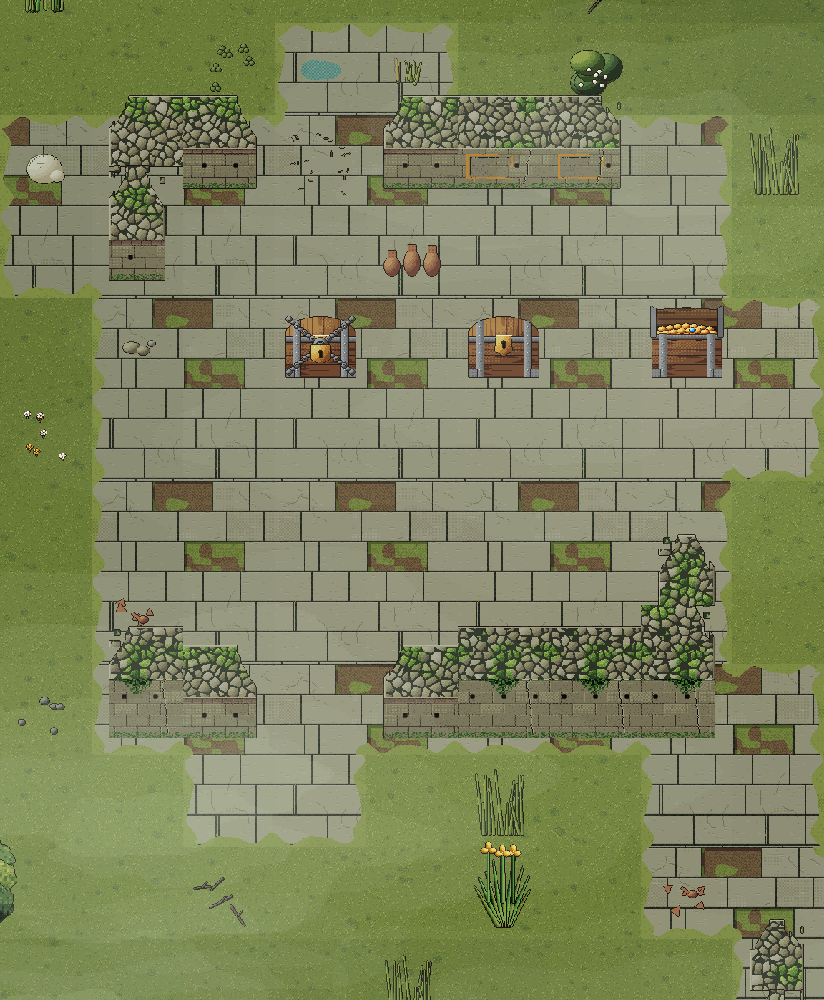
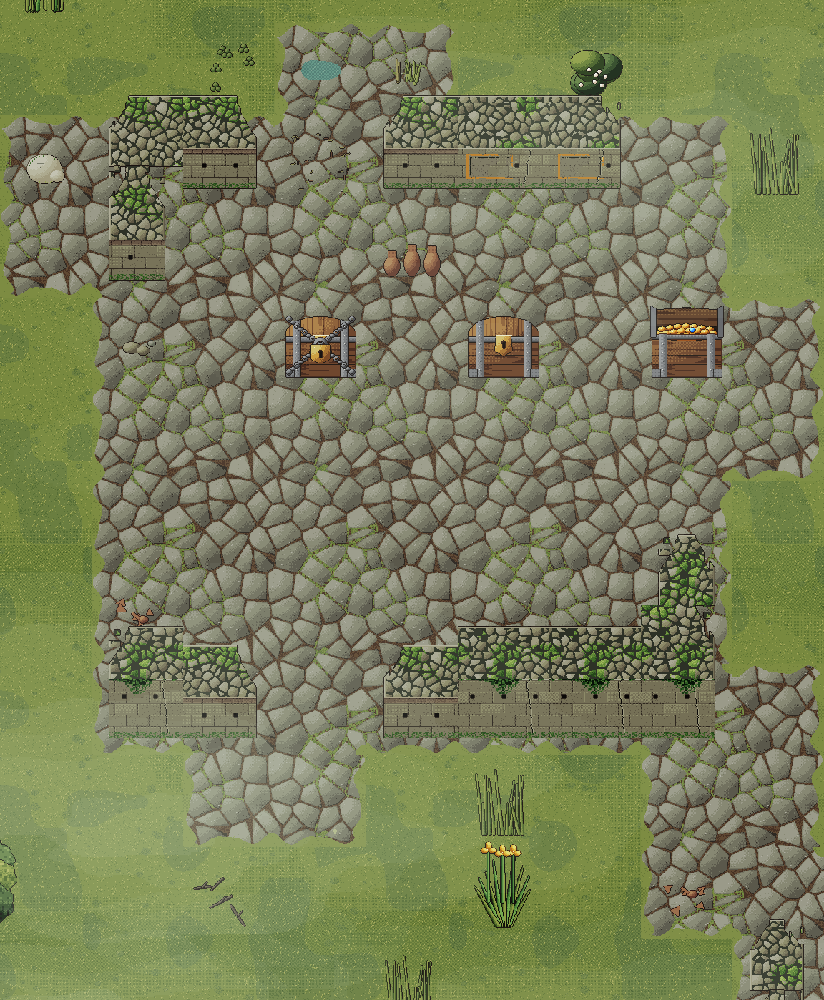
Pântanos sem faixas, quadrados e confete no chão
Visto no celular, o chão novo dos dois pântanos ficou ruim: a sombra e as
folhas da beira da mata seguiam a linha do tile (a copa termina antes
dela) e viravam uma faixa reta e uma fileira de folhas; a tinta de luz por
tile deixava a grade em quadrados no capim; os lamaçais tinham cara de
bloco; os enfeites rasteiros viravam confete; a água funda e as lajes do
Pântano das Ruínas repetiam o mesmo desenho em grade.

Nos pântanos: sem sombra e folhas na beira da mata, sem tinta por tile
(as manchas de luz e de musgo agora estão pintadas no capim, contínuas em
blocos de 4x4 tiles, como o miolo das lagoas), sem lamaçais, enfeites
rasteiros bem mais raros e o piso das ruínas em pedras irregulares. O
Bosque Velho e o Coração da Mata não mudam (teste cenarios).

Claude-Session: https://claude.ai/code/session_017wBqbNTjck9cMUH9LvK2M2

diff --git a/apps/client/src/forestPlan.ts b/apps/client/src/forestPlan.ts
@@ -2,8 +2,8 @@ import { TILE_SIZE, Tile, tileAt, tileDistance, type Dungeon, type Rect } from "
 import { hash } from "./art/pixels.ts";
 import { TileAtlas } from "./art/paint.ts";
 import {
-  GIANT, HEART, OPEN, SPECIES, TALL, TALL_DECOR, TREE, boardTile, bogTile, bridgeTile, canopyTile, dirtTile, draw, flatDecor, giant,
-  heartTree, litterEdge, logTile, mudEdge, shadowEdge, stone, tallDecor, tree, wallTile, waterTile,
+  GIANT, HEART, OPEN, SPECIES, TALL, TALL_DECOR, TREE, boardTile, bridgeTile, canopyTile, dirtTile, draw, flatDecor, giant,
+  heartTree, litterEdge, logTile, mudEdge, shadowEdge, stone, tallDecor, tree, wallTile, waterTile, wetPiece,
   type FlatDecor, type ForestVariant, type TallDecor,
 } from "./art/forestArt.ts";
 import {
@@ -13,7 +13,7 @@ import {
 
 // O plano do Bosque Velho, do Coração da Mata e dos dois pântanos, sem o Phaser: que quadro vai em cada tile de cada
 // camada e que objeto fica de pé onde. `forestMap.ts` desenha no jogo; o plano também serve para prévias fora do
-// navegador. O pântano é a mesma mata, alagada: passarelas em vez de pontes, lamaçais no capim, árvores dentro d'água.
+// navegador. O pântano é a mesma mata, alagada: passarelas em vez de pontes, árvores dentro d'água.
 // O Pântano das Ruínas tem, no lugar dos troncos, o que resta do império afundado (`art/swampArt.ts`): lajes, muros,
 // colunas, entulho e o mosaico da arena.
 
@@ -24,7 +24,6 @@ const RING = [[0, -1, OPEN.n], [1, 0, OPEN.e], [0, 1, OPEN.s], [-1, 0, OPEN.w], 
 const GRASS_VARIANTS = 6;
 const ARENA_VARIANTS = 3;
 const WATER_VARIANTS = 2;
-const MARSH_WATER_VARIANTS = 6;
 const TREE_VARIANTS = 3;
 const GIANT_VARIANTS = 2;
 const CANOPY_VARIANTS = 4;
@@ -134,24 +133,6 @@ export function planForest(d: Dungeon) {
     for (let y = 0; y < H; y++)
       for (let x = 0; x < W; x++)
         if (kind[y * W + x] === 2 && DIRS.filter(([dx, dy]) => at(x + dx, y + dy) === Tile.Water).length >= 2) wetTree[y * W + x] = 1;
-  /**
-   * Lamaçais do pântano: manchas de lama no capim aberto, por um ruído suave sobre a grade de tiles (fora das clareiras,
-   * da arena e das passarelas).
-   */
-  const bogSet = new Uint8Array(W * H);
-  if (variant === "marsh") {
-    const cellNoise = (x: number, y: number) => {
-      const C = 7, gx = Math.floor(x / C), gy = Math.floor(y / C), fx = x / C - gx, fy = y / C - gy;
-      const sx = fx * fx * (3 - 2 * fx), sy = fy * fy * (3 - 2 * fy);
-      const v = (i: number, j: number) => hash(i, j, 71);
-      const top = v(gx, gy) + (v(gx + 1, gy) - v(gx, gy)) * sx, bottom = v(gx, gy + 1) + (v(gx + 1, gy + 1) - v(gx, gy + 1)) * sx;
-      return top + (bottom - top) * sy;
-    };
-    for (let y = 0; y < H; y++)
-      for (let x = 0; x < W; x++)
-        if (at(x, y) === Tile.Floor && cellNoise(x, y) > 0.7 && !inRooms(x, y) && !inArena(x, y) && !onBridge(x, y)) bogSet[y * W + x] = 1;
-  }
-  const bog = (x: number, y: number) => inMap(x, y) && bogSet[y * W + x] === 1;
 
   // Lajes (Pântano das Ruínas): as salas inteiras, uma beirada irregular em volta delas e o chão em volta dos restos de
   // muro pelo campo. Laje solta no capim (sem duas vizinhas de laje) não fica.
@@ -233,12 +214,21 @@ export function planForest(d: Dungeon) {
         // As variações só no miolo da lagoa (sem terra em volta): na margem, o contorno já muda de tile para tile, e o
         // atlas não passa do limite de textura do celular.
         const land = edges(x, y, (a, b) => !water(a, b));
-        const v = land ? pick(x, y, 2, 5) : pick(x, y, MARSH_WATER_VARIANTS, 5);
-        put("chao", x, y, `water${land}-${v}`, () => waterTile(variant, land, v).render(false));
+        if (!land) {
+          const q = wetPiece(x, y);
+          put("chao", x, y, `pool${q}`, () => waterTile(variant, 0, q, q).render(false));
+        } else {
+          const v = pick(x, y, 2, 5);
+          put("chao", x, y, `water${land}-${v}`, () => waterTile(variant, land, v).render(false));
+        }
       } else if (t === Tile.Water && !onBridge(x, y)) {
         const land = edges(x, y, (a, b) => !water(a, b));
         const v = pick(x, y, WATER_VARIANTS, 5);
         put("chao", x, y, `water${land}-${v}`, () => waterTile(variant, land, v).render(false));
+      } else if (marsh) {
+        // Pântanos: o capim contínuo em blocos de 4×4 tiles (também na clareira do boss), sem tinta por tile.
+        const q = wetPiece(x, y);
+        put("chao", x, y, `wgrass${q}`, draw.wetGrass(variant, q));
       } else if (inArena(x, y)) {
         const v = pick(x, y, ARENA_VARIANTS, 2);
         put("chao", x, y, `arena${v}`, draw.arena(variant, v));
@@ -287,17 +277,14 @@ export function planForest(d: Dungeon) {
         const out = edges(x, y, (a, b) => !trail(a, b));
         put("trilha", x, y, `dirt${out}`, () => dirtTile(variant, out).render(false));
       }
-      if (bog(x, y)) {
-        const out = edges(x, y, (a, b) => !bog(a, b));
-        const v = out ? 0 : pick(x, y, 3, 8);
-        put("trilha", x, y, `bog${out}-${v}`, () => bogTile(variant, out, v).render(false));
-      }
       const wet = edges(x, y, (a, b) => at(a, b) === Tile.Water && !onBridge(a, b));
       if (wet) put("barro", x, y, `mud${wet}`, () => mudEdge(variant, wet).render(false));
+      // Folhas secas e sombra na beira da mata (não nos pântanos: as duas seguem a linha do tile, e a copa termina antes
+      // dela; ficavam uma faixa reta e uma fileira de folhas no capim).
       const woods = edges(x, y, forest);
-      if (woods && !inArena(x, y) && !paved(x, y)) put("folhas", x, y, `litter${woods}`, () => litterEdge(variant, woods).render(true));
+      if (woods && !marsh && !inArena(x, y) && !paved(x, y)) put("folhas", x, y, `litter${woods}`, () => litterEdge(variant, woods).render(true));
       const shade = woods & (OPEN.n | OPEN.w | OPEN.nw);
-      if (shade) put("sombra", x, y, `shade${shade}`, () => shadowEdge(variant, shade));
+      if (shade && !marsh) put("sombra", x, y, `shade${shade}`, () => shadowEdge(variant, shade));
 
       // Enfeites rasteiros: poucos, em grupos perto da mata, dos troncos e das salas.
       if (kind[i] || reserved(x, y) || t === Tile.Portal) continue;
@@ -317,8 +304,9 @@ export function planForest(d: Dungeon) {
       }
       const n = hash(x, y, 91);
       const byWoods = near(x, y, 1, forest);
-      const chance = inRooms(x, y) ? (marsh ? 0.4 : 0.14) : trail(x, y) ? 0.03 : byWoods ? 0.14 : marsh ? 0.13 : 0.09;
-      if (n >= chance || bog(x, y)) continue;
+      // Nos pântanos, poucos enfeites rasteiros (muitos viravam um confete pelo chão), mais nas clareiras dos baús.
+      const chance = inRooms(x, y) ? (marsh ? 0.22 : 0.14) : trail(x, y) ? 0.03 : byWoods ? (marsh ? 0.06 : 0.14) : marsh ? 0.035 : 0.09;
+      if (n >= chance) continue;
       const k = flatKind(hash(x, y, 92), { heart, marsh, trail: trail(x, y), woods: byWoods, wet: wet !== 0, arena: inArena(x, y), room: inRooms(x, y) });
       const v = Math.floor(hash(x, y, 93) * 3);
       put("enfeites", x, y, `flat-${k}-${v}`, () => flatDecor(variant, k, v).render(true));
@@ -398,7 +386,7 @@ export function planForest(d: Dungeon) {
         continue;
       }
       const t = at(x, y);
-      if (t !== Tile.Floor || kind[i] || reserved(x, y) || layers.enfeites[i] >= 0 || trail(x, y) || onBridge(x, y) || bog(x, y)) continue;
+      if (t !== Tile.Floor || kind[i] || reserved(x, y) || layers.enfeites[i] >= 0 || trail(x, y) || onBridge(x, y)) continue;
       if (paved(x, y)) {
         // De pé nas lajes: tambor de coluna, cabeça de estátua, urnas, ânfora ou acanto na fresta; nunca no mosaico nem
         // perto dos baús.

diff --git a/apps/client/src/art/forestArt.ts b/apps/client/src/art/forestArt.ts
@@ -1,6 +1,6 @@
 import type { Rgb } from "./hero/color.ts";
 import {
-  BAYER, FLAT, HD, Paper as Painter, ebox, ellipse, inEllipse, limb, line, lit, noise, palette, poly, sn, sphere,
+  BAYER, FLAT, HD, Paper as Painter, ebox, ellipse, inEllipse, limb, line, lit, noise, palette, poly, smoothNoise, sn, sphere,
   type MaterialBase, type Offset, type Shade,
 } from "./paint.ts";
 
@@ -179,6 +179,30 @@ function grassTile(variant: ForestVariant, v: number, lush = false): Paper {
     for (const [dx, dy] of [[0, -2], [-2, 1], [2, 1]] as const) { p.on(x + dx, y + dy, F.Moss, 4); p.on(x + dx + 1, y + dy, F.Moss, 3); }
     p.on(x, y + 2, F.Moss, 1);
   }
+  return p;
+}
+
+/** O capim dos pântanos é uma textura contínua de `WET_BLOCK`×`WET_BLOCK` tiles: cada tile pinta o pedaço `q` dela. */
+export const WET_BLOCK = 4;
+/** Pedaço do bloco de capim que o tile (x, y) usa. */
+export const wetPiece = (x: number, y: number) => (x & (WET_BLOCK - 1)) + WET_BLOCK * (y & (WET_BLOCK - 1));
+
+/**
+ * Capim dos pântanos: o miúdo do capim da mata e, por cima, as manchas grandes de luz e de musgo, que correm sem emenda
+ * pelo bloco de 4×4 tiles (`q` é o pedaço). Nos pântanos o mapa não tinge tile a tile (a tinta por tile deixava a grade
+ * aparecendo em quadrados no campo aberto): a variação grande vem daqui.
+ */
+function wetGrassTile(variant: ForestVariant, q: number): Paper {
+  const p = grassTile(variant, q % 6);
+  const ox = (q % WET_BLOCK) * HD, oy = Math.floor(q / WET_BLOCK) * HD, P = HD * WET_BLOCK;
+  for (let y = 0; y < HD; y++)
+    for (let x = 0; x < HD; x++) {
+      const i = y * HD + x;
+      const light = smoothNoise(x + ox, y + oy, 128, 401, P);
+      const moss = smoothNoise(x + ox, y + oy, 64, 402, P);
+      if (p.fixed[i] < 0) p.shade[i] += (light - 0.5) * 0.22;
+      if (moss > 0.66 && p.mat[i] === F.Grass && p.fixed[i] < 0) p.mat[i] = F.Moss;
+    }
   return p;
 }
 
@@ -404,7 +428,7 @@ export function canopyTile(variant: ForestVariant, open: number, v: number): Pap
  * riscos de correnteza; no Coração da Mata, a lagoa escura e parada com folhas de nenúfar; no pântano, a água turva e
  * parada com manchas de lentilha-d'água e mais nenúfares. Barro na margem.
  */
-export function waterTile(variant: ForestVariant, land: number, v: number): Paper {
+export function waterTile(variant: ForestVariant, land: number, v: number, block?: number): Paper {
   const p = new Paper(variant);
   const heart = variant !== "oldwood";
   const marsh = isWetland(variant);
@@ -420,7 +444,12 @@ export function waterTile(variant: ForestVariant, land: number, v: number): Pape
       // No pântano (água larga), o ruído perto da beira do tile é o mesmo para todos (a emenda casa) e no miolo é o da
       // variação: a lagoa não vira um xadrez de tiles iguais.
       const rim = marsh ? Math.min(1, Math.min(x, y, HD - 1 - x, HD - 1 - y) / 14) : 0;
-      const mixed = (cell: number, seed: number) => (marsh ? 0.5 + (sn(x, y, cell, seed + 40 + v * 7) - 0.5) * rim : sn(x, y, cell, seed));
+      // `block`: o miolo da lagoa do pântano pinta o pedaço `block` de um ruído contínuo de 4×4 tiles (não repete a
+      // cada tile); na beira do tile o tom é o mesmo para todos, então emenda com a margem.
+      const inner = (cell: number, seed: number) => (block === undefined
+        ? sn(x, y, cell, seed + 40 + v * 7)
+        : smoothNoise(x + (block % WET_BLOCK) * HD, y + Math.floor(block / WET_BLOCK) * HD, cell, seed + 40, HD * WET_BLOCK));
+      const mixed = (cell: number, seed: number) => (marsh ? 0.5 + (inner(cell, seed) - 0.5) * rim : sn(x, y, cell, seed));
       p.mat[i] = deep ? F.Deep : F.Water;
       // (No pântano, a água funda fica no meio de uma faixa de tom: na divisa, o pontilhado vira um xadrez na lagoa toda.)
       p.shade[i] = deep ? (marsh ? 0.6 : 0.48) + (mixed(32, 93) - 0.5) * 0.1 : 0.7 - Math.min(1, d / 30) * 0.22;
@@ -522,41 +551,6 @@ export function boardTile(variant: ForestVariant, across: boolean, ends: number,
       q.mat[o] = p.mat[i]; q.shade[o] = p.shade[i]; q.off[o] = p.off[i]; q.fixed[o] = p.fixed[i]; q.part[o] = p.part[i];
     }
   return q;
-}
-
-/**
- * Lamaçal do pântano (por cima do capim), pelos vizinhos que não são lama (`out`): a beira ondulada como a da trilha,
- * a lama escura e brilhante, poças d'água paradas e pegadas afundadas.
- */
-export function bogTile(variant: ForestVariant, out: number, v: number): Paper {
-  const p = new Paper(variant);
-  const edge = (x: number, y: number) => 22 + (sn(x, y, 32, 300) - 0.5) * 24 + (sn(x, y, 16, 301) - 0.5) * 8;
-  const dist = field(out, 62);
-  p.fill([0, 0, HD - 1, HD - 1], (x, y) => at(dist, x, y) > edge(x, y), F.Mud, (x, y) => FLAT - 0.06 + (sn(x, y, 16, 302) - 0.5) * 0.2,
-    (x, y) => (noise(x, y, 303) < 0.05 ? -1 : noise(x, y, 304) > 0.98 ? 1 : 0));
-  for (let y = 0; y < HD; y++)
-    for (let x = 0; x < HD; x++) {
-      if (!p.has(x, y)) continue;
-      const i = y * HD + x;
-      const d = dist[i] - edge(x, y);
-      if (d < 2) p.on(x, y, null, 1);
-      else if (d < 7 && noise(x >> 1, y >> 1, 305) < 0.25) { p.mat[i] = F.Grass; p.fixed[i] = noise(x, y, 306) < 0.5 ? 3 : 2; }
-    }
-  // Poças: água parada no fundo da lama, longe da beira do tile (não cruzam a emenda, então mudam com a variação).
-  for (let k = 0; k < 1 + (v % 2); k++) {
-    const cx = 34 + noise(k, v, 307) * 60, cy = 34 + noise(v, k, 308) * 60, rx = 10 + noise(k, v + 3, 309) * 12, ry = rx * (0.5 + noise(v, k + 3, 310) * 0.2);
-    const wob = (a: number) => 1 + 0.18 * Math.sin(a * 3 + k + v) + 0.1 * Math.sin(a * 5 + v);
-    for (let y = Math.floor(cy - ry - 3); y <= cy + ry + 3; y++)
-      for (let x = Math.floor(cx - rx - 3); x <= cx + rx + 3; x++) {
-        const u = (x + 0.5 - cx) / rx, w = (y + 0.5 - cy) / ry, r = Math.hypot(u, w) / wob(Math.atan2(w, u));
-        if (r > 1 || !p.has(x, y)) continue;
-        const i = y * HD + x;
-        p.mat[i] = F.Water;
-        // Beira escura, o meio na cor da água e o brilho do céu em riscos do lado da luz.
-        p.fixed[i] = r > 0.85 ? 1 : w < -0.2 && u < 0.2 && noise(x >> 2, y, 311) < 0.25 ? 4 : 2;
-      }
-  }
-  return p;
 }
 
 // --- Troncos caídos e muros ----------------------------------------------------------------
@@ -1169,6 +1163,7 @@ export function tallDecor(variant: ForestVariant, kind: TallDecor, v: number): U
 /** Atalhos dos quadros de chão. */
 export const draw = {
   grass: (variant: ForestVariant, v: number) => () => grassTile(variant, v).render(false),
+  wetGrass: (variant: ForestVariant, q: number) => () => wetGrassTile(variant, q).render(false),
   arena: (variant: ForestVariant, v: number) => () => arenaTile(variant, v).render(false),
 };
 

diff --git a/apps/client/src/art/swampArt.ts b/apps/client/src/art/swampArt.ts
@@ -1,4 +1,4 @@
-import { E, empireRampsWith, flatDecor, fringeEdge, inPalette, travertineTile, type FlatDecor } from "./empireArt.ts";
+import { E, basaltTile, empireRampsWith, flatDecor, fringeEdge, inPalette, type FlatDecor } from "./empireArt.ts";
 import {
   BLOCK, COLUMN, MOSAIC_TILES, SMALL, WALL_SPRITE, columnSprite, mosaicImage, rubbleSprite, smallDecor, wallSprite,
   type ColumnKind, type SmallDecor,
@@ -14,7 +14,7 @@ import {
 /** Paleta das ruínas: as cores do império com a pedra lavada pela baía e a vegetação do pântano. */
 const RAMPS = empireRampsWith({
   [E.Grass]: ["#7d8c42", 0.6, 3], [E.Dry]: ["#8e8a52", 0.6, 4], [E.Dirt]: ["#755f40", 0.7, 6], [E.Clover]: ["#6e8342", 0.7, 4],
-  [E.Basalt]: ["#5e6458", 0.8, 5], [E.Travertine]: ["#9c9b82", 0.62, 5], [E.Marble]: ["#b8b7a0", 0.55, 4], [E.Vein]: ["#8a8c7a", 0.7, 4],
+  [E.Basalt]: ["#878873", 0.8, 5], [E.Travertine]: ["#9c9b82", 0.62, 5], [E.Marble]: ["#b8b7a0", 0.55, 4], [E.Vein]: ["#8a8c7a", 0.7, 4],
   [E.Mortar]: ["#3e4234", 0.6, 4], [E.Tuff]: ["#8c8a68", 0.8, 6], [E.Moss]: ["#5f8636", 0.85, 8], [E.Ivy]: ["#2f5a22", 0.95, 9],
   [E.Leaf]: ["#436130", 0.95, 9], [E.Bush]: ["#55783a", 0.95, 9], [E.Water]: ["#629484", 0.85, 8], [E.Deep]: ["#3e6b61", 0.85, 8],
   [E.Slab]: ["#5e6252", 0.8, 5], [E.Wall]: ["#6c6c5a", 0.85, 5], [E.Bone]: ["#d1ccb9", 0.75, 5], [E.Line]: ["#171f0f", 0.4, 0],
@@ -23,13 +23,17 @@ const RAMPS = empireRampsWith({
   [E.Terracotta]: ["#9a6a48", 0.8, 6], [E.Cloth]: ["#6e4a3a", 0.8, 6],
 });
 
-const swamp = <T>(draw: () => T) => inPalette(RAMPS, draw);
+export const inSwamp = <T>(draw: () => T) => inPalette(RAMPS, draw);
+const swamp = inSwamp;
 
 export { BLOCK, COLUMN, MOSAIC_TILES, SMALL, WALL_SPRITE, type ColumnKind, type FlatDecor, type SmallDecor };
 export { WALL_HEIGHTS, WALL_LINK } from "./empireMonuments.ts";
 
-/** Laje do piso (calçamento que fecha a cada 2×2 tiles: `q` é o quarto do tile). */
-export const pavingTile = (q: number) => swamp(() => travertineTile(q).render(false));
+/**
+ * Piso de pedras irregulares (o calçamento de basalto da via dos Portões, aqui em calcário; fecha a cada 2×2 tiles: `q`
+ * é o quarto do tile). O travertino tinha lajes faltando em grade regular, que apareciam a cada 2 tiles.
+ */
+export const pavingTile = (q: number) => swamp(() => basaltTile(q).render(false));
 /** Capim invadindo a beira das lajes pelos vizinhos que são capim (bits de `OPEN`). */
 export const pavingFringe = (grass: number) => swamp(() => fringeEdge(grass).render(false));
 /** Trecho de muro arruinado (`wallSprite` do império, sem as ameias da muralha). */

diff --git a/apps/server/scripts/cenarios.ts b/apps/server/scripts/cenarios.ts
@@ -28,7 +28,7 @@ import {
   tallDecor as duneTall, type DuneVariant,
 } from "../../client/src/art/duneArt.ts";
 import {
-  FLAT_DECOR as FOREST_FLAT, OPEN, SPECIES, TALL_DECOR as FOREST_TALL, boardTile, bogTile, bridgeTile, canopyTile, dirtTile, draw as forest,
+  FLAT_DECOR as FOREST_FLAT, OPEN, SPECIES, TALL_DECOR as FOREST_TALL, boardTile, bridgeTile, canopyTile, dirtTile, draw as forest,
   flatDecor as forestFlat, giant, heartTree, litterEdge, logTile, mudEdge, shadowEdge, stone, tallDecor as forestTall, tree,
   wallTile, waterTile, type ForestVariant,
 } from "../../client/src/art/forestArt.ts";
@@ -88,9 +88,9 @@ const SCENERY: Record<string, Piece[]> = {
   "Pântano do Kosaradius": [
     ...woods("marsh"),
     ...range(3).map((v) => ({ name: `água do miolo ${v}`, draw: () => waterTile("marsh", 0, v + 3).render(false) })),
+    ...[0, 5, 10, 15].map((q) => ({ name: `capim do pântano ${q}`, draw: forest.wetGrass("marsh", q) })),
     ...[0, OPEN.w, OPEN.e | OPEN.w].map((e) => ({ name: `passarela leste-oeste ${e}`, draw: () => boardTile("marsh", true, e, 0).render(true) })),
     ...[0, OPEN.n].map((e) => ({ name: `passarela norte-sul ${e}`, draw: () => boardTile("marsh", false, e, 1).render(true) })),
-    ...[[0, 1], [OPEN.n, 0], [OPEN.n | OPEN.w | OPEN.nw, 0]].map(([m, v]) => ({ name: `lamaçal ${m}-${v}`, draw: () => bogTile("marsh", m, v).render(false) })),
   ],
   "Pântano das Ruínas": [
     ...woods("swamp"),

diff --git a/apps/client/src/forestMap.ts b/apps/client/src/forestMap.ts
@@ -38,7 +38,8 @@ export function drawForest(scene: Phaser.Scene, d: Dungeon, floorDepth: number, 
   for (const name of LAYERS) {
     const l = map.createBlankLayer(name, set)!.setDepth(floorDepth).setScale(1 / ZOOM);
     const data = layers[name];
-    const tint = name === "chao" || name === "trilha" || name === "relevo";
+    // Nos pântanos a variação grande já vem pintada no capim (a tinta por tile deixava a grade aparecendo).
+    const tint = !isWetland(variant) && (name === "chao" || name === "trilha" || name === "relevo");
     for (let y = 0; y < H; y++)
       for (let x = 0; x < W; x++) {
         const f = data[y * W + x];

diff --git a/docs/CENARIOS_PLANO.md b/docs/CENARIOS_PLANO.md
@@ -97,7 +97,7 @@ comuns e os 5 mapas já padronizados (≈1 s no total). Os PNGs `chest-*`, `port
 Entregue de um jeito diferente do previsto: em vez de um pintor novo copiado do Bosque Velho, o Kosaradius virou a
 **variante `marsh` do desenho da mata** (`art/forestArt.ts`, `forestPlan.ts`, `forestMap.ts`). O gerador do pântano
 usa as mesmas regras de tile da mata (mata fechada, árvore solta, água, passarela, tronco), então o plano serve quase
-inteiro; o que é só do pântano entrou como peça nova (passarela, lamaçal, cipreste, mangue, taboa, junco, íris,
+inteiro; o que é só do pântano entrou como peça nova (passarela, cipreste, mangue, taboa, junco, íris,
 planta-jarro, ossada, água parada com lentilha-d'água, névoa). Para mexer no pintor sem estragar o Bosque e o Coração
 da Mata, o teste `cenarios` guarda a impressão digital de cada peça (`apps/server/scripts/cenarios.json`) e confere
 que o atlas de cada mapa cabe em 4096 px. `marshMap.ts` ficou só com a chamada; o `wetlandMap.ts` e o `marshDecor.ts`
@@ -108,12 +108,17 @@ servidor, com a câmera do celular, os baús, o portal e o sangue. Ex.: `/mapa.h
 
 Pendente para depois: marolas, bolhas e libélulas do ambiente antigo não voltaram (vaga-lumes, névoa e folhas, sim).
 
+Correção depois de ver no celular (o primeiro resultado ficou ruim): nos pântanos saíram a sombra e as folhas secas na
+beira da mata (as duas seguiam a linha do tile, mas a copa termina antes dela: ficavam uma faixa reta escura e uma fileira
+de folhas), a tinta de luz por tile (deixava a grade em quadrados no capim aberto; as manchas de luz e de musgo agora estão
+pintadas no capim, contínuas em blocos de 4×4 tiles) e os lamaçais (blocos com cara de tile). Enfeites rasteiros bem mais
+raros. Lição: conferir sempre no tamanho real do celular, não só ampliado.
+
 ![Pântano do Kosaradius: clareira dos baús, troncos caídos, cipreste e mangue](arte/kosaradius.png)
 
 ### Fase 1b — Pântano das Ruínas (feita)
 
-- A natureza é a **variante `swamp`** do desenho da mata (a do Kosaradius, na paleta da baía), sem lamaçais nem
-  passarelas.
+- A natureza é a **variante `swamp`** do desenho da mata (a do Kosaradius, na paleta da baía), sem passarelas.
 - As ruínas **não foram pintadas de novo**: são as peças dos Portões do Império (lajes, muros, colunas, entulho,
   cabeças, urnas, ânforas e o mosaico) pintadas noutra paleta. `empireArt.ts` ganhou `inPalette` (pinta com outras
   rampas) e `empireRampsWith` (a paleta do império com cores trocadas); `art/swampArt.ts` tem a paleta das ruínas

diff --git a/docs/GDD.md b/docs/GDD.md
@@ -527,7 +527,7 @@ Os monstros de cada mapa (encontros, rodízio de mini-bosses e bosses, Mímicos)
 - **Visual** (só no cliente, `apps/client/src/swampMap.ts`; não muda a jogabilidade): **sempre na arte nova** (128 px
   por tile, por código, `docs/CENARIOS_PLANO.md`). A natureza é a mata alagada do Pântano do Kosaradius (variante
   `swamp` de `forestPlan.ts` e `art/forestArt.ts`) na paleta da Baía Afundada: verde-oliva mais aberto e claro, água
-  verde-azulada parada com lentilha-d'água e nenúfares, íris amarela, sem lamaçais nem passarelas. As árvores soltas são
+  verde-azulada parada com lentilha-d'água e nenúfares, íris amarela, sem passarelas. As árvores soltas são
   as mesmas 4 espécies (cipreste, mangue, salgueiro e morta), algumas dentro d'água. As ruínas são o que resta do
   império afundado: as peças dos Portões do Império (`art/swampArt.ts`, que pinta `empireArt.ts` e `empireMonuments.ts`
   noutra paleta: calcário cinza-esverdeado, musgo e hera, o tijolo e o reboco lavados até o tom da pedra):
@@ -824,7 +824,9 @@ o desenho lê.
   em andares e barba-de-velho pendurada), **mangue** (ninho de raízes-escora em arco), **salgueiro-chorão** e **árvore
   morta**; a árvore com água em 2 lados ou mais nasce dentro d'água, e em volta da clareira do boss são quase todas
   ciprestes (o anel). Tronco e copa separados; a copa balança e fica transparente com o jogador embaixo.
-  **Lamaçais** em manchas pelo capim aberto, com poças paradas. **Passarelas** de tábuas desiguais (algumas velhas, com
+  O capim tem manchas grandes de luz e de musgo que correm sem emenda (blocos de 4×4 tiles, sem tinta por tile: a
+  grade não aparece); a beira da mata não tem faixa de sombra nem folhas em fila, e os enfeites rasteiros são poucos.
+  **Passarelas** de tábuas desiguais (algumas velhas, com
   musgo) e postes nas pontas, com a água por baixo. Os troncos caídos das clareiras dos baús são os troncos do Bosque
   (casca, musgo, anéis na ponta); a pedra solta é um toco. Enfeites de pé: taboas, juncos e íris roxa na margem;
   samambaias, plantas-jarro e cogumelos na beira da mata. Rasteiros: folhas caídas, gravetos, raízes, trevos, flores,
